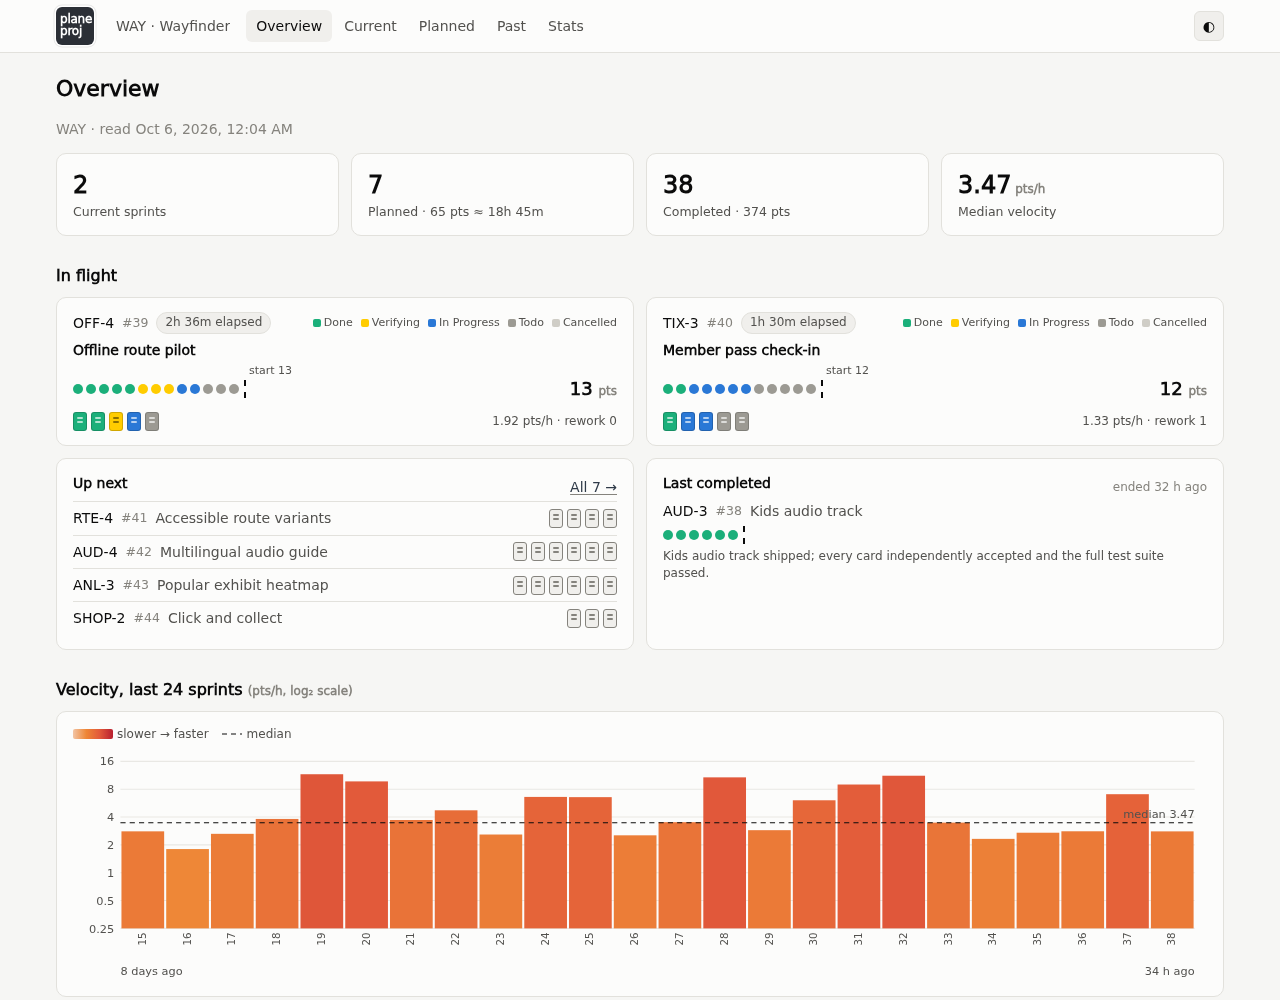
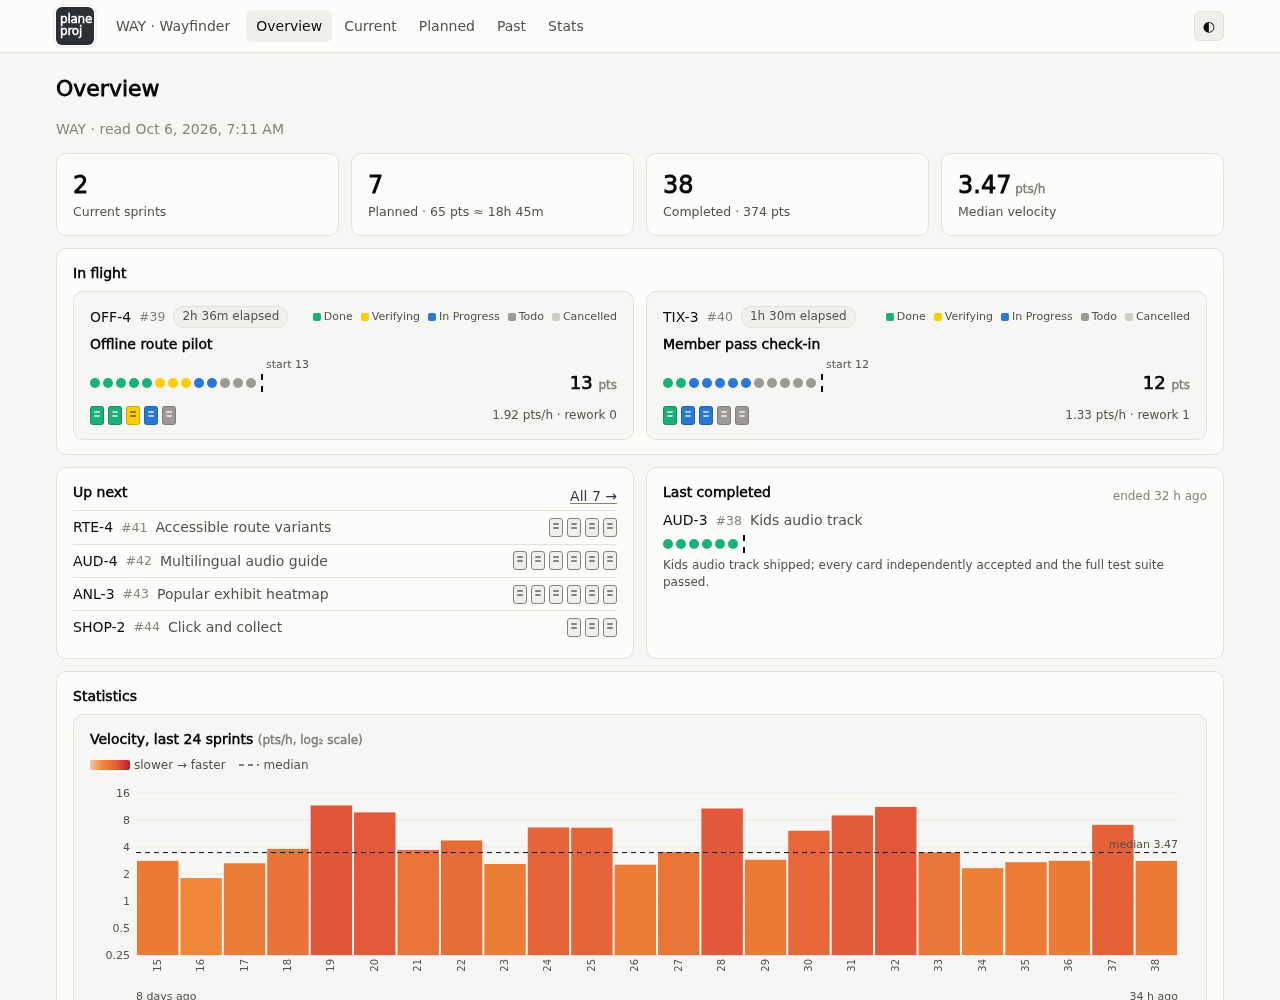
feat(web): Overview boxes In flight and Statistics
In flight is now one box at the same level as Up next and Last
completed. Inside it, up to three running sprints sit side by side;
more scroll sideways, and a phone stacks them.

The velocity chart moves into a Statistics box, labelled inside at the
top left, holding three boxes in order: Velocity, Points (stacked dots,
delivered against the original scope) and Durations (log scale, with
the median), each for the last 24 sprints.

Verification: pytest and ruff check pass. In the demo: two sprints fill
the In flight box; with five, cards are a third of the box wide and the
box scrolls sideways; at 390 px they stack with no sideways scroll.
Overview screenshot refreshed.

Claude-Session: https://claude.ai/code/session_01FgdVYP9r5FsBvYhXWxvHnT

diff --git a/src/plane_proj/web.html b/src/plane_proj/web.html
@@ -221,6 +221,12 @@ span.sk.inline { display: inline-block; vertical-align: middle; }
 .clock { text-align: right; }
 .clock .t { font-family: ui-monospace, SFMono-Regular, Menlo, monospace; font-size: 22px; font-weight: 600; letter-spacing: .02em; font-variant-numeric: tabular-nums; }
 .clock .d { font-size: 12px; color: var(--text-2); }
+/* Boxes inside a box, such as Overview's sprints and charts. */
+.card.sub { background: var(--bg); }
+/* In flight: up to three sprints side by side, more scroll sideways; a
+   phone stacks them. */
+.flight { display: grid; grid-auto-flow: column; grid-auto-columns: minmax(calc((100% - 24px) / 3), 1fr); gap: 12px; overflow-x: auto; }
+@media (max-width: 760px) { .flight { grid-auto-flow: row; grid-auto-columns: auto; } }
 .kpi.side { display: flex; align-items: center; justify-content: space-between; gap: 8px; }
 .kpi.side > :first-child { flex: none; }
 /* The dial shrinks in a narrow tile instead of overflowing it. */
@@ -552,12 +558,12 @@ V.overview = () => {
     <div class="card kpi link" onclick="location.hash='#/past'"><div class="v">${past.length}</div><div class="l">Completed${POINTS ? ` · ${past.reduce((a, s) => a + (s.points_end || 0), 0)} pts` : ''}</div></div>
     ${MEDV ? `<div class="card kpi link" onclick="location.hash='#/stats'"><div class="v">${num(MEDV, 2)}<span class="muted small"> pts/h</span></div><div class="l">Median velocity</div></div>` : ''}
   </div>
-  <h2>In flight</h2><div class="grid g2">${current.map(s => { const cards = cardsFor(s);
-    return `<div class="card link" ${goto(s.sprint)}><div class="row">${label(s)}<span class="pill">${fmtH(elapsedH(s))} elapsed</span><span class="sp"></span>${legendOf('compact')}</div>
+  <div class="card" style="margin-top:12px"><h3>In flight</h3><div class="flight">${current.map(s => { const cards = cardsFor(s);
+    return `<div class="card sub link" ${goto(s.sprint)}><div class="row">${label(s)}<span class="pill">${fmtH(elapsedH(s))} elapsed</span><span class="sp"></span>${legendOf('compact')}</div>
       <h3 style="margin:6px 0 16px">${esc(s.title)}</h3>${PARTIAL ? `${POINTS ? skStateBar() : ''}
       <div class="row" style="margin-top:10px">${skIcons(s.cards_start)}<span class="sp"></span>${skInline('110px')}</div>` : `${POINTS ? stateBar(cards, s.points_start, 'pts') : ''}
       <div class="row" style="margin-top:10px">${cardIcons(byProgress(cards).map(c => stC[c.state]))}<span class="sp"></span>
-      <span class="t2 small">${POINTS ? `${num(s.points_done / elapsedH(s), 2)} pts/h · ` : ''}rework ${s.timing?.rework_count ?? 0}</span></div>`}</div>`; }).join('') || '<p class="muted">No sprint in progress.</p>'}</div>
+      <span class="t2 small">${POINTS ? `${num(s.points_done / elapsedH(s), 2)} pts/h · ` : ''}rework ${s.timing?.rework_count ?? 0}</span></div>`}</div>`; }).join('') || '<p class="muted">No sprint in progress.</p>'}</div></div>
   <div class="grid g2" style="margin-top:12px">
     <div class="card"><div class="row"><h3>Up next</h3><span class="sp"></span><a href="#/planned">All ${planned.length} →</a></div>
       ${planned.length ? '' : '<p class="muted">No planned sprints.</p>'}${planned.slice(0, 4).map(s => `<div class="row link" style="padding:6px 0;border-top:1px solid var(--border);cursor:pointer" ${goto(s.sprint)}>
@@ -567,9 +573,18 @@ V.overview = () => {
       ${POINTS ? `<div style="margin:8px 0;max-width:${Math.max(last.points_start, last.points_end) * 14}px">${outcome(last.points_start, last.points_end, Math.max(last.points_start, last.points_end))}</div>` : ''}
       <div class="prose small" style="max-height:72px;overflow:hidden">${esc(last.delivered)}</div></div>` : '<div class="card"><h3>Last completed</h3><p class="muted">No completed sprints.</p></div>'}
   </div>
-  ${MEDV && recent.length ? `<h2>Velocity, last ${recent.length} sprints <span class="muted small">(pts/h, log₂ scale)</span></h2>
-  <div class="card">${heatLegend}${colChart({ data: recent, log: true, h: 200, fmt: v => num(v, 2), stacks: [{ label: 'pts/h', color: d => heatV(d.velocity), get: d => d.velocity }],
-    ref: MEDV, refLabel: `median ${num(MEDV, 2)}`, tipFn: d => tipHead(d) + `${num(d.velocity, 2)} pts/h · ${d.elapsed}` })}</div>` : ''}`;
+  ${recent.length ? `<div class="card" style="margin-top:12px"><h3>Statistics</h3>
+    ${MEDV ? `<div class="card sub"><h3>Velocity, last ${recent.length} sprints <span class="muted small">(pts/h, log₂ scale)</span></h3>
+      ${heatLegend}${colChart({ data: recent, log: true, h: 200, fmt: v => num(v, 2), stacks: [{ label: 'pts/h', color: d => heatV(d.velocity), get: d => d.velocity }],
+      ref: MEDV, refLabel: `median ${num(MEDV, 2)}`, tipFn: d => tipHead(d) + `${num(d.velocity, 2)} pts/h · ${d.elapsed}` })}</div>` : ''}
+    ${POINTS ? `<div class="card sub" style="margin-top:12px"><h3>Points, last ${recent.length} sprints</h3>
+      ${stackChart({ data: recent, start: d => d.points_start, end: d => d.points_end, kind: 'points',
+        tipFn: d => tipHead(d) + `${d.points} pts · cards ${d.cards}` })}</div>` : ''}
+    <div class="card sub" style="margin-top:12px"><h3>Durations, last ${recent.length} sprints <span class="muted small">(log₂ scale)</span></h3>
+      ${colChart({ data: recent, log: true, lo: 0.125, h: 200, fmt: v => v < 1 ? Math.round(v * 60) + 'm' : num(v, 0) + 'h',
+        stacks: [{ label: 'hours', color: 'var(--dur)', get: d => d.hours }], ref: ST.hours?.median, refLabel: `median ${fmtH(ST.hours?.median)}`,
+        tipFn: d => tipHead(d) + d.elapsed })}</div>
+  </div>` : ''}`;
 };
 
 // Parallel sprints get one tab each; the tab is in the URL, so it survives
